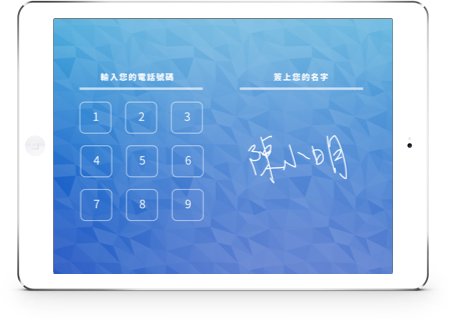
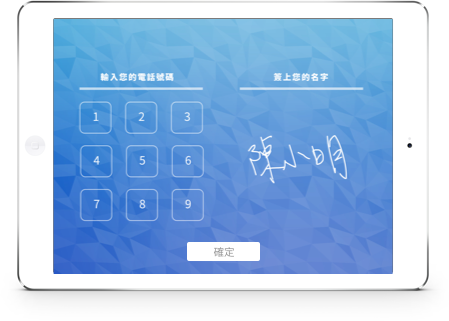
gif 替換 ipad-demo

Changed region(s): [[0.4053, 0.7477, 0.5924, 0.81]]

diff --git a/public/js/all.js b/public/js/all.js
@@ -1,1 +1,1 @@
-!function(e){e.fn.translate=function(t){var n=this,a={css:"trn",lang:"en"};a=e.extend(a,t||{}),0!==a.css.lastIndexOf(".",0)&&(a.css="."+a.css);var o=a.t;return this.lang=function(e){return e&&(a.lang=e,this.translate(a)),a.lang},this.get=function(e){var t=e;try{t=o[e][a.lang]}catch(n){return e}return t?t:e},this.g=this.get,this.find(a.css).each(function(t){var a=e(this),o=a.attr("data-trn-key");o||(o=a.html(),a.attr("data-trn-key",o)),a.html(n.get(o))}),this}}(jQuery);var dict={"What is Checkin+ ?":{zhtw:"Checkin+ 是什麼？",en:"What is Checkin+ ?"},"How to work?":{zhtw:"如何合作？",en:"How to work?"},"Our Services":{zhtw:"加值服務",en:"Our Services"},About:{zhtw:"關於我們",en:"About"},Lang:{zhtw:"語言",en:"Lang"},"・Exhibition leader":{zhtw:"・會展科技領導者",en:"・Exhibition leader"},"・Fully functional":{zhtw:"・全功能簽到服務",en:"・Fully functional"},"・More smoothly":{zhtw:"・讓活動更加順暢",en:"・More smoothly"},"Send Order":{zhtw:"寄信預約",en:"Send Order"},"Checkin+ is little helper activity report, regardless of how much human activity is, Checkin+ can help you save a lot of human volunteers, so that your activities are no longer running around in circles":{zhtw:"Checkin+ 是活動報到小助手，不論是多少人的活動，Checkin+ 都可以幫你節省大量的人力志工，讓您的活動不再手忙腳亂",en:"Checkin+ is little helper activity report, regardless of how much human activity is, Checkin+ can help you save a lot of human volunteers, so that your activities are no longer running around in circles"},"Generating statistics":{zhtw:"一鍵產生統計表",en:"Generating statistics"},"There are sign-in sheet to render an account, a key production statistics, end of the event immediately reimbursement":{zhtw:"有簽到表才能報帳，一鍵產統計表，活動結束立刻報帳",en:"There are sign-in sheet to render an account, a key production statistics, end of the event immediately reimbursement"},"Save manpower":{zhtw:"節省人力",en:"Save manpower"},"With the most streamlined manpower, so that a large number of participants complete report":{zhtw:"用最精簡的人力，讓大量的與會者完成報到",en:"With the most streamlined manpower, so that a large number of participants complete report"},ReMarketing:{zhtw:"再次行銷",en:"ReMarketing"},"Allowing you to quickly and accurate interactive and participants":{zhtw:"讓您快速而精準的和與會者互動",en:"Allowing you to quickly and accurate interactive and participants"},"How to work with you?":{zhtw:"如何和您合作？",en:"How to work with you?"},"Checkin+ will send someone to the site to help you install the system, six minutes to complete the installation. Just write down a single appointment, the person immediately and contact you":{zhtw:"Checkin+ 會派專人到現場協助您安裝系統，六分鐘就能完成安裝。只要寫下預約單，專人立即和您聯絡",en:"Checkin+ will send someone to the site to help you install the system, six minutes to complete the installation. Just write down a single appointment, the person immediately and contact you"},"Fill a single appointment":{zhtw:"填寫預約單",en:"Fill a single appointment"},"Discuss project needs":{zhtw:"討論專案需求",en:"Discuss project needs"},"To install in meeting":{zhtw:"到活動會場安裝",en:"To install in meeting"},"What can also help you?":{zhtw:"還可以幫您什麼？",en:"What can also help you?"},"Checkin+ hope in addition to saving you hours of manpower, but also that you make more statistical analysis and online services, so you'll know exactly activity effectiveness, convenience and participants for further interaction":{zhtw:"Checkin+ 希望除了節省您的人力時間，還可以為您做更多統計分析和線上服務，讓您清楚知道活動效益，便捷和與會者做進一步的互動",en:"Checkin+ hope in addition to saving you hours of manpower, but also that you make more statistical analysis and online services, so you'll know exactly activity effectiveness, convenience and participants for further interaction"},Questionnaire:{zhtw:"提問卷",en:"Questionnaire"},"Without pen and paper, you can ask the online satisfaction questionnaire so that effective recovery up to a hundred percent":{zhtw:"不用紙筆，線上就能詢問滿意度，讓有效問卷回收高達百分百",en:"Without pen and paper, you can ask the online satisfaction questionnaire so that effective recovery up to a hundred percent"},"Cloud attendance, conference materials made immediately":{zhtw:"雲端簽到，立即取得會議資料",en:"Cloud attendance, conference materials made immediately"},"Too late to participate or not participate in the participants, with the online portal sign, just like online check of the aircraft in. Reached the scene do not line up, and immediately enter the venue, the line can also be made to handouts and video files":{zhtw:"來不及參加，或是不能參加的與會者，用線上 portal 簽到，就有如飛機的線上 check in。達到現場不用排隊，立刻進會場，線上也能取得到講義和影音文件",en:"Too late to participate or not participate in the participants, with the online portal sign, just like online check of the aircraft in. Reached the scene do not line up, and immediately enter the venue, the line can also be made to handouts and video files"},"Flexible expansion station":{zhtw:"彈性擴充簽到站",en:"Flexible expansion station"},"Conferences have always queuing up for admission Well? Flexible expansion station sign, so you can increase depending on the number of check-in stations, so that participants can fast track into the hall, no longer have to queue at the door card":{zhtw:"大型會議總是得排隊進場嘛？彈性擴充簽到站，讓您可以視人數增加簽到站，讓與會者可以快速通關進會場，再也不用卡在門口排隊",en:"Conferences have always queuing up for admission Well? Flexible expansion station sign, so you can increase depending on the number of check-in stations, so that participants can fast track into the hall, no longer have to queue at the door card"},"No network can immediately work":{zhtw:"不用網路就能立刻作業",en:"No network can immediately work"},"The web site is not good, but also to complete the sign thing? Checkin+ No problem, our system can communicate with each other, so even if there is no network can be completed sign":{zhtw:"現場網路不好，也能完成簽到嘛？Checkin+ 沒問題，我們系統可以互相通訊，所以即使沒有網路也能完成簽到",en:"The web site is not good, but also to complete the sign thing? Checkin+ No problem, our system can communicate with each other, so even if there is no network can be completed sign"},"Private Cloud Share":{zhtw:"私有雲分享",en:"Private Cloud Share"},"Only participants can see the file, you use packaged private cloud up!":{zhtw:"只有與會者才能看到的文件，就用私有雲打包起來吧！",en:"Only participants can see the file, you use packaged private cloud up!"},"Rapid exchange business cards":{zhtw:"快速交換名片",en:"Rapid exchange business cards"},"Participants can quickly and new acquaintances through the exchange of business cards Checkin+, strung commercial link":{zhtw:"透過 Checkin+，與會者可以快速和新認識的朋友交換名片，串起商業的連結",en:"Participants can quickly and new acquaintances through the exchange of business cards Checkin+, strung commercial link"},"Value-added data services":{zhtw:"加值數據服務",en:"Value-added data services"},"Big data statistical analysis, opinion surveys behavior analysis, marketing forecasting analysis, customer attribute points west, supporting marketing programs, integrating exhibitors moving hot line data analysis. Checkin+ gives you precise attack next!":{zhtw:"大數據資料統計分析、意見調查行為分析、行銷預測分析、客戶屬性分西、行銷配套方案、整合參展動線熱點數據分析。Checkin+ 讓您精準出擊下一步！",en:"Big data statistical analysis, opinion surveys behavior analysis, marketing forecasting analysis, customer attribute points west, supporting marketing programs, integrating exhibitors moving hot line data analysis. Checkin+ gives you precise attack next!"},"Exhibition co-periphery good":{zhtw:"會展週邊共好",en:"Exhibition co-periphery good"},"Valid data marketing programs: Registration of participants tickets, discount hotel reservations, convention surrounding shopping, dining, entertainment, transportation, restaurants and other services supporting the integration of communication, once you are contracted out!":{zhtw:"有效數據行銷方案：報到參加者機票、飯店訂房折扣、會展週邊購物、餐飲、娛樂、交通、飯店通訊整合等服務配套，一次包給您！",en:"Valid data marketing programs: Registration of participants tickets, discount hotel reservations, convention surrounding shopping, dining, entertainment, transportation, restaurants and other services supporting the integration of communication, once you are contracted out!"},"Listen to how users say":{zhtw:"聽聽用戶怎麼說",en:"Listen to how users say"},"Large Conference Registration volunteers need 20--30 people, with Checkin+ now only 10 people is enough! 1/3 Human save it!":{zhtw:"大型會議報到志工都需要20 - 30 人，有了 Checkin+ 現在只要 10個人就夠了！人力節省 1/3 呢！",en:"Large Conference Registration volunteers need 20--30 people, with Checkin+ now only 10 people is enough! 1/3 Human save it!"},"- xxxx event hoster":{zhtw:"- xxxx 活動主辦人",en:"- xxxx event hoster"},"After the event, always take a long time to sort out the questionnaire and lists After Checkin+, faster analysis was again accurate marketing":{zhtw:"活動結束後，總是要花很長時間整理問卷和名單，用 Checkin+ 後，可以更快分析與會者，再次精準行銷",en:"After the event, always take a long time to sort out the questionnaire and lists After Checkin+, faster analysis was again accurate marketing"},"- xxxx Marketing Manager":{zhtw:"- xxxx 行銷經理",en:"- xxxx Marketing Manager"},"Participate in activities always stuck in the door line, automatic check-in system can quickly allow members Admission to feel very convenient":{zhtw:"參加活動總是卡在門口排隊，自動簽到系統可以快速讓會員入場，覺得相當方便",en:"Participate in activities always stuck in the door line, automatic check-in system can quickly allow members Admission to feel very convenient"},"- xxxx event participants":{zhtw:"- xxxx 活動參加者",en:"- xxxx event participants"},"Faithtech Co., Ltd.":{zhtw:"誠義資訊有限公司",en:"Faithtech Co., Ltd."},"Tel:":{zhtw:"電話：",en:"Tel:"},"Email:":{zhtw:"信箱：",en:"Email:"},"Add:":{zhtw:"地址：",en:"Add:"},"10658 6F., No.153, Sec. 3, Xinyi Rd., Da’an Dist., Taipei City 106, Taiwan (R.O.C.)":{zhtw:"10658 台北市大安區信義路三段153號6樓",en:"10658 6F., No.153, Sec. 3, Xinyi Rd., Da’an Dist., Taipei City 106, Taiwan (R.O.C.)"},"Hello, please help us fill in the form and we'll contact you as soon as possible, thank you!":{zhtw:"您好，請協助我們填寫表單，我們會盡快和您聯絡，謝謝！",en:"Hello, please help us fill in the form and we'll contact you as soon as possible, thank you!"},"Full name":{zhtw:"您的大名",en:"Full name"},Phone:{zhtw:"聯絡電話",en:"Phone"},Email:{zhtw:"聯絡信箱",en:"Email"},"Event name":{zhtw:"活動名稱",en:"Event name"},"Event time":{zhtw:"活動時間",en:"Event time"},From:{zhtw:"從",en:"From"},To:{zhtw:"到",en:"To"},Y:{zhtw:"年",en:"Y"},M:{zhtw:"月",en:"M"},D:{zhtw:"日",en:"D"},"Event address":{zhtw:"活動地點",en:"Event address"},"Estimated number of activities":{zhtw:"預估活動人數",en:"Estimated number of activities"},other:{zhtw:"其他",en:"other"},"Form has been sent":{zhtw:"表單已送出",en:"Form has been sent"},"Thank you for your patience to fill, and we'll contact you as soon as possible! Thank you!":{zhtw:"表感謝您耐心填寫，我們會盡快和您聯絡！謝謝！",en:"Thank you for your patience to fill, and we'll contact you as soon as possible! Thank you!"},OK:{zhtw:"確定",en:"OK"},"Woops!":{zhtw:"出了一些問題！",en:"Woops!"},"Sorry,something has gone wrong, you may want to send a letter to service@faithtech.com.tw We will contact you as soon as possible! Thank you!":{zhtw:"抱歉，出了一些問題，您可以先寄信到 service@faithtech.com.tw 我們會盡快和您聯絡！謝謝！",en:"Sorry, something has gone wrong, you may want to send a letter to service@faithtech.com.tw We will contact you as soon as possible! Thank you!"}};$(function(){function e(e,t,n){var a=new Date;a.setTime(a.getTime()+24*n*60*60*1e3);var o="expires="+a.toUTCString();document.cookie=e+"="+t+"; "+o}function t(e){for(var t=e+"=",n=document.cookie.split(";"),a=0;a<n.length;a++){for(var o=n[a];" "==o.charAt(0);)o=o.substring(1);if(0==o.indexOf(t))return o.substring(t.length,o.length)}return""}var n=window.navigator.userLanguage||window.navigator.language,a=n.toLowerCase(),o=t("cookieLang");if(o)var i=$("body").translate({lang:o,t:dict});else if("zh-tw"===a||"zh-cn"===a)var i=$("body").translate({lang:"zhtw",t:dict});else var i=$("body").translate({lang:"en",t:dict});$(".btn-translate").on("click",function(){var t=$(this).attr("id");i.lang(t),e("cookieLang",t,365)});var s=document.createElement("div");s.classList.add("black-mask"),document.body.appendChild(s),document.getElementById("btn-menu").addEventListener("click",function(e){s.classList.add("show"),document.body.classList.add("nav-main-open"),e.stopPropagation(),document.addEventListener("click",function(e){e.target.closest("#dropdownLang")||(document.body.classList.remove("nav-main-open"),s.classList.remove("show"))})}),$(".btn-scroll").on("click",function(){var e=$(this.hash).offset().top;$("html, body").animate({scrollTop:e})}),$("#form-booking").on("submit",function(e){e.preventDefault();var t=$(this),n=t.attr("action"),a=$("#booking-name").val(),o=$("#booking-phone").val(),i=$("#booking-email").val(),s=$("#booking-event-name").val(),r=document.getElementById("booking-from-year"),c=r.options[r.selectedIndex].text,h=document.getElementById("booking-from-month"),l=h.options[h.selectedIndex].text,u=document.getElementById("booking-from-day"),d=u.options[u.selectedIndex].text,m=document.getElementById("booking-to-year"),p=m.options[m.selectedIndex].text,g=document.getElementById("booking-to-month"),w=g.options[g.selectedIndex].text,y=document.getElementById("booking-to-day"),v=y.options[y.selectedIndex].text,k=$("#booking-event-add").val(),f=$("#booking-event-members").val(),b=$("#booking-other").val();$.ajax({type:"POST",url:n,data:{name:a,phone:o,email:i,eventName:s,fromYear:c,fromMonth:l,fromDay:d,toYear:p,toMonth:w,toDay:v,eventAdd:k,eventMembers:f,other:b},dataType:"json",success:function(e){console.log("success"),$("#modal-success").modal("show")},error:function(){console.log("error"),$("#modal-booking").modal("hide"),$("#modal-error").modal("show")}})})});
+!function(e){e.fn.translate=function(t){var n=this,a={css:"trn",lang:"en"};a=e.extend(a,t||{}),0!==a.css.lastIndexOf(".",0)&&(a.css="."+a.css);var o=a.t;return this.lang=function(e){return e&&(a.lang=e,this.translate(a)),a.lang},this.get=function(e){var t=e;try{t=o[e][a.lang]}catch(n){return e}return t?t:e},this.g=this.get,this.find(a.css).each(function(t){var a=e(this),o=a.attr("data-trn-key");o||(o=a.html(),a.attr("data-trn-key",o)),a.html(n.get(o))}),this}}(jQuery);var dict={"What is Checkin+ ?":{zhtw:"Checkin+ 是什麼？",en:"What is Checkin+ ?"},"How to work?":{zhtw:"如何合作？",en:"How to work?"},"Our Services":{zhtw:"加值服務",en:"Our Services"},About:{zhtw:"關於我們",en:"About"},Lang:{zhtw:"語言",en:"Lang"},"・Exhibition leader":{zhtw:"・會展科技領導者",en:"・Exhibition leader"},"・Fully functional":{zhtw:"・全功能簽到服務",en:"・Fully functional"},"・More smoothly":{zhtw:"・讓活動更加順暢",en:"・More smoothly"},"Send Order":{zhtw:"寄信預約",en:"Send Order"},"Checkin+ is little helper activity report, regardless of how much human activity is, Checkin+ can help you save a lot of human volunteers, so that your activities are no longer running around in circles":{zhtw:"Checkin+ 是活動報到小助手，不論是多少人的活動，Checkin+ 都可以幫你節省大量的人力志工，讓您的活動不再手忙腳亂",en:"Checkin+ is little helper activity report, regardless of how much human activity is, Checkin+ can help you save a lot of human volunteers, so that your activities are no longer running around in circles"},"Generating statistics":{zhtw:"一鍵產生統計表",en:"Generating statistics"},"There are sign-in sheet to render an account, a key production statistics, end of the event immediately reimbursement":{zhtw:"有簽到表才能報帳，一鍵產統計表，活動結束立刻報帳",en:"There are sign-in sheet to render an account, a key production statistics, end of the event immediately reimbursement"},"Save manpower":{zhtw:"節省人力",en:"Save manpower"},"With the most streamlined manpower, so that a large number of participants complete report":{zhtw:"用最精簡的人力，讓大量的與會者完成報到",en:"With the most streamlined manpower, so that a large number of participants complete report"},ReMarketing:{zhtw:"再次行銷",en:"ReMarketing"},"Allowing you to quickly and accurate interactive and participants":{zhtw:"讓您快速而精準的和與會者互動",en:"Allowing you to quickly and accurate interactive and participants"},"How to work with you?":{zhtw:"如何和您合作？",en:"How to work with you?"},"Checkin+ will send someone to the site to help you install the system, six minutes to complete the installation. Just write down a single appointment, the person immediately and contact you":{zhtw:"Checkin+ 會派專人到現場協助您安裝系統，六分鐘就能完成安裝。只要寫下預約單，專人立即和您聯絡",en:"Checkin+ will send someone to the site to help you install the system, six minutes to complete the installation. Just write down a single appointment, the person immediately and contact you"},"Fill a single appointment":{zhtw:"填寫預約單",en:"Fill a single appointment"},"Discuss project needs":{zhtw:"討論專案需求",en:"Discuss project needs"},"To install in meeting":{zhtw:"到活動會場安裝",en:"To install in meeting"},"What can also help you?":{zhtw:"還可以幫您什麼？",en:"What can also help you?"},"Checkin+ hope in addition to saving you hours of manpower, but also that you make more statistical analysis and online services, so you'll know exactly activity effectiveness, convenience and participants for further interaction":{zhtw:"Checkin+ 希望除了節省您的人力時間，還可以為您做更多統計分析和線上服務，讓您清楚知道活動效益，便捷和與會者做進一步的互動",en:"Checkin+ hope in addition to saving you hours of manpower, but also that you make more statistical analysis and online services, so you'll know exactly activity effectiveness, convenience and participants for further interaction"},Questionnaire:{zhtw:"提問卷",en:"Questionnaire"},"Without pen and paper, you can ask the online satisfaction questionnaire so that effective recovery up to a hundred percent":{zhtw:"不用紙筆，線上就能詢問滿意度，讓有效問卷回收高達百分百",en:"Without pen and paper, you can ask the online satisfaction questionnaire so that effective recovery up to a hundred percent"},"Cloud attendance, conference materials made immediately":{zhtw:"雲端簽到，立即取得會議資料",en:"Cloud attendance, conference materials made immediately"},"Too late to participate or not participate in the participants, with the online portal sign, just like online check of the aircraft in. Reached the scene do not line up, and immediately enter the venue, the line can also be made to handouts and video files":{zhtw:"來不及參加，或是不能參加的與會者，用線上 portal 簽到，就有如飛機的線上 check in。達到現場不用排隊，立刻進會場，線上也能取得到講義和影音文件",en:"Too late to participate or not participate in the participants, with the online portal sign, just like online check of the aircraft in. Reached the scene do not line up, and immediately enter the venue, the line can also be made to handouts and video files"},"Flexible expansion station":{zhtw:"彈性擴充簽到站",en:"Flexible expansion station"},"Conferences have always queuing up for admission Well? Flexible expansion station sign, so you can increase depending on the number of check-in stations, so that participants can fast track into the hall, no longer have to queue at the door card":{zhtw:"大型會議總是得排隊進場嘛？彈性擴充簽到站，讓您可以視人數增加簽到站，讓與會者可以快速通關進會場，再也不用卡在門口排隊",en:"Conferences have always queuing up for admission Well? Flexible expansion station sign, so you can increase depending on the number of check-in stations, so that participants can fast track into the hall, no longer have to queue at the door card"},"No network can immediately work":{zhtw:"不用網路就能立刻作業",en:"No network can immediately work"},"The web site is not good, but also to complete the sign thing? Checkin+ No problem, our system can communicate with each other, so even if there is no network can be completed sign":{zhtw:"現場網路不好，也能完成簽到嘛？Checkin+ 沒問題，我們系統可以互相通訊，所以即使沒有網路也能完成簽到",en:"The web site is not good, but also to complete the sign thing? Checkin+ No problem, our system can communicate with each other, so even if there is no network can be completed sign"},"Private Cloud Share":{zhtw:"私有雲分享",en:"Private Cloud Share"},"Only participants can see the file, you use packaged private cloud up!":{zhtw:"只有與會者才能看到的文件，就用私有雲打包起來吧！",en:"Only participants can see the file, you use packaged private cloud up!"},"Rapid exchange business cards":{zhtw:"快速交換名片",en:"Rapid exchange business cards"},"Participants can quickly and new acquaintances through the exchange of business cards Checkin+, strung commercial link":{zhtw:"透過 Checkin+，與會者可以快速和新認識的朋友交換名片，串起商業的連結",en:"Participants can quickly and new acquaintances through the exchange of business cards Checkin+, strung commercial link"},"Value-added data services":{zhtw:"加值數據服務",en:"Value-added data services"},"Big data statistical analysis, opinion surveys behavior analysis, marketing forecasting analysis, customer attribute points west, supporting marketing programs, integrating exhibitors moving hot line data analysis. Checkin+ gives you precise attack next!":{zhtw:"大數據資料統計分析、意見調查行為分析、行銷預測分析、客戶屬性分西、行銷配套方案、整合參展動線熱點數據分析。Checkin+ 讓您精準出擊下一步！",en:"Big data statistical analysis, opinion surveys behavior analysis, marketing forecasting analysis, customer attribute points west, supporting marketing programs, integrating exhibitors moving hot line data analysis. Checkin+ gives you precise attack next!"},"Exhibition co-periphery good":{zhtw:"會展週邊共好",en:"Exhibition co-periphery good"},"Valid data marketing programs: Registration of participants tickets, discount hotel reservations, convention surrounding shopping, dining, entertainment, transportation, restaurants and other services supporting the integration of communication, once you are contracted out!":{zhtw:"有效數據行銷方案：報到參加者機票、飯店訂房折扣、會展週邊購物、餐飲、娛樂、交通、飯店通訊整合等服務配套，一次包給您！",en:"Valid data marketing programs: Registration of participants tickets, discount hotel reservations, convention surrounding shopping, dining, entertainment, transportation, restaurants and other services supporting the integration of communication, once you are contracted out!"},"Listen to how users say":{zhtw:"聽聽用戶怎麼說",en:"Listen to how users say"},"Large Conference Registration volunteers need 20--30 people, with Checkin+ now only 10 people is enough! 1/3 Human save it!":{zhtw:"大型會議報到志工都需要20 - 30 人，有了 Checkin+ 現在只要 10個人就夠了！人力節省 1/3 呢！",en:"Large Conference Registration volunteers need 20--30 people, with Checkin+ now only 10 people is enough! 1/3 Human save it!"},"- xxxx event hoster":{zhtw:"- xxxx 活動主辦人",en:"- xxxx event hoster"},"After the event, always take a long time to sort out the questionnaire and lists After Checkin+, faster analysis was again accurate marketing":{zhtw:"活動結束後，總是要花很長時間整理問卷和名單，用 Checkin+ 後，可以更快分析與會者，再次精準行銷",en:"After the event, always take a long time to sort out the questionnaire and lists After Checkin+, faster analysis was again accurate marketing"},"- xxxx Marketing Manager":{zhtw:"- xxxx 行銷經理",en:"- xxxx Marketing Manager"},"Participate in activities always stuck in the door line, automatic check-in system can quickly allow members Admission to feel very convenient":{zhtw:"參加活動總是卡在門口排隊，自動簽到系統可以快速讓會員入場，覺得相當方便",en:"Participate in activities always stuck in the door line, automatic check-in system can quickly allow members Admission to feel very convenient"},"- xxxx event participants":{zhtw:"- xxxx 活動參加者",en:"- xxxx event participants"},"Faithtech Co., Ltd.":{zhtw:"誠義資訊股份有限公司",en:"Faithtech Co., Ltd."},"Tel:":{zhtw:"電話：",en:"Tel:"},"Email:":{zhtw:"信箱：",en:"Email:"},"Add:":{zhtw:"地址：",en:"Add:"},"10658 6F., No.153, Sec. 3, Xinyi Rd., Da’an Dist., Taipei City 106, Taiwan (R.O.C.)":{zhtw:"10658 台北市大安區信義路三段153號6樓",en:"10658 6F., No.153, Sec. 3, Xinyi Rd., Da’an Dist., Taipei City 106, Taiwan (R.O.C.)"},"Hello, please help us fill in the form and we'll contact you as soon as possible, thank you!":{zhtw:"您好，請協助我們填寫表單，我們會盡快和您聯絡，謝謝！",en:"Hello, please help us fill in the form and we'll contact you as soon as possible, thank you!"},"Full name":{zhtw:"您的大名",en:"Full name"},Phone:{zhtw:"聯絡電話",en:"Phone"},Email:{zhtw:"聯絡信箱",en:"Email"},"Event name":{zhtw:"活動名稱",en:"Event name"},"Event time":{zhtw:"活動時間",en:"Event time"},From:{zhtw:"從",en:"From"},To:{zhtw:"到",en:"To"},Y:{zhtw:"年",en:"Y"},M:{zhtw:"月",en:"M"},D:{zhtw:"日",en:"D"},"Event address":{zhtw:"活動地點",en:"Event address"},"Estimated number of activities":{zhtw:"預估活動人數",en:"Estimated number of activities"},other:{zhtw:"其他",en:"other"},"Form has been sent":{zhtw:"表單已送出",en:"Form has been sent"},"Thank you for your patience to fill, and we'll contact you as soon as possible! Thank you!":{zhtw:"表感謝您耐心填寫，我們會盡快和您聯絡！謝謝！",en:"Thank you for your patience to fill, and we'll contact you as soon as possible! Thank you!"},OK:{zhtw:"確定",en:"OK"},"Woops!":{zhtw:"出了一些問題！",en:"Woops!"},"Sorry,something has gone wrong, you may want to send a letter to service@faithtech.com.tw We will contact you as soon as possible! Thank you!":{zhtw:"抱歉，出了一些問題，您可以先寄信到 service@faithtech.com.tw 我們會盡快和您聯絡！謝謝！",en:"Sorry, something has gone wrong, you may want to send a letter to service@faithtech.com.tw We will contact you as soon as possible! Thank you!"}};$(function(){function e(e,t,n){var a=new Date;a.setTime(a.getTime()+24*n*60*60*1e3);var o="expires="+a.toUTCString();document.cookie=e+"="+t+"; "+o}function t(e){for(var t=e+"=",n=document.cookie.split(";"),a=0;a<n.length;a++){for(var o=n[a];" "==o.charAt(0);)o=o.substring(1);if(0==o.indexOf(t))return o.substring(t.length,o.length)}return""}var n=window.navigator.userLanguage||window.navigator.language,a=n.toLowerCase(),o=t("cookieLang");if(o)var i=$("body").translate({lang:o,t:dict});else if("zh-tw"===a||"zh-cn"===a)var i=$("body").translate({lang:"zhtw",t:dict});else var i=$("body").translate({lang:"en",t:dict});$(".btn-translate").on("click",function(){var t=$(this).attr("id");i.lang(t),e("cookieLang",t,365)});var s=document.createElement("div");s.classList.add("black-mask"),document.body.appendChild(s),document.getElementById("btn-menu").addEventListener("click",function(e){s.classList.add("show"),document.body.classList.add("nav-main-open"),e.stopPropagation(),document.addEventListener("click",function(e){e.target.closest("#dropdownLang")||(document.body.classList.remove("nav-main-open"),s.classList.remove("show"))})}),$(".btn-scroll").on("click",function(){var e=$(this.hash).offset().top;$("html, body").animate({scrollTop:e})}),$("#form-booking").on("submit",function(e){e.preventDefault();var t=$(this),n=t.attr("action"),a=$("#booking-name").val(),o=$("#booking-phone").val(),i=$("#booking-email").val(),s=$("#booking-event-name").val(),r=document.getElementById("booking-from-year"),c=r.options[r.selectedIndex].text,h=document.getElementById("booking-from-month"),l=h.options[h.selectedIndex].text,u=document.getElementById("booking-from-day"),d=u.options[u.selectedIndex].text,m=document.getElementById("booking-to-year"),p=m.options[m.selectedIndex].text,g=document.getElementById("booking-to-month"),w=g.options[g.selectedIndex].text,y=document.getElementById("booking-to-day"),v=y.options[y.selectedIndex].text,k=$("#booking-event-add").val(),f=$("#booking-event-members").val(),b=$("#booking-other").val();$.ajax({type:"POST",url:n,data:{name:a,phone:o,email:i,eventName:s,fromYear:c,fromMonth:l,fromDay:d,toYear:p,toMonth:w,toDay:v,eventAdd:k,eventMembers:f,other:b},dataType:"json",success:function(e){console.log("success"),$("#modal-success").modal("show")},error:function(){console.log("error"),$("#modal-booking").modal("hide"),$("#modal-error").modal("show")}})})});

diff --git a/index.html b/index.html
@@ -33,7 +33,7 @@
 	        <h1 class="space-3 space-top-3 text-center title-xl">Checkin+</h1>
 	        <p class="space-4 slogan text-center"><span class="trn">・Exhibition leader</span><br class="visible-xs"><span class="trn">・Fully functional</span><br class="visible-xs"><span class="trn">・More smoothly</span></p>
 	        <div class="space-4 text-center"><a class="btn btn-primary btn-xl trn" data-toggle="modal" data-target="#modal-booking">Send Order</a></div>
-	        <div class="text-center img-demo"><img src="public/img/ipad-450.png" alt="iPad demo" class="img-responsive"></div>
+	        <div class="text-center img-demo"><img src="public/gif/ipad-720.gif" alt="iPad demo" class="img-responsive"></div>
 	    </div>
 	</header>
 
@@ -220,6 +220,7 @@
 	        		<button type="button" class="close" data-dismiss="modal" aria-label="Close"><span aria-hidden="true">&times;</span></button>
 	      		</div>
 		      	<div class="modal-body">
+		      		<p>此功能尚未開啟，以下為示範表單</p>
 		        	<p class="trn">Hello, please help us fill in the form and we'll contact you as soon as possible, thank you!</p>
 		        	<form id="form-booking" action="api-url">
 		        		<div class="form-group">
@@ -369,7 +370,7 @@
     						<label class="trn">other</label>
     						<textarea class="form-control" style="height: 120px;" id="booking-other"></textarea>
   						</div>
-  						<div class="space-4 text-center" style="margin-bottom: 30rem;"><button type="submit" class="btn btn-primary btn-xl trn">Send Order</button></div>
+  						<!-- <div class="space-4 text-center" style="margin-bottom: 30rem;"><button type="submit" class="btn btn-primary btn-xl trn">Send Order</button></div> -->
 		        	</form>
 		      	</div>
 	    	</div>

diff --git a/source/js/jquery.translate.text.js b/source/js/jquery.translate.text.js
@@ -196,7 +196,7 @@ var dict = {
 
   	// footer
   	'Faithtech Co., Ltd.': {
-    	zhtw: '誠義資訊有限公司',
+    	zhtw: '誠義資訊股份有限公司',
     	en: 'Faithtech Co., Ltd.'
   	},
   	'Tel:': {
